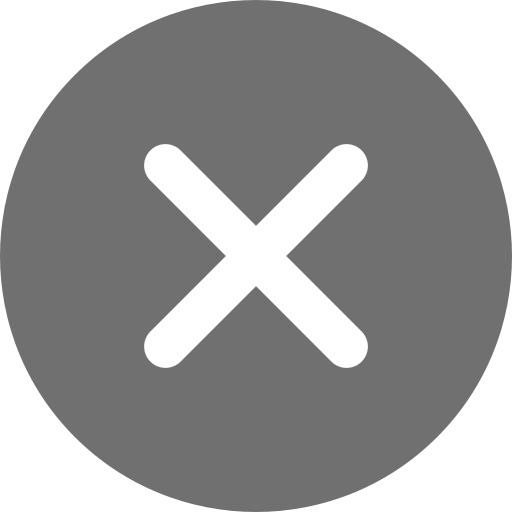
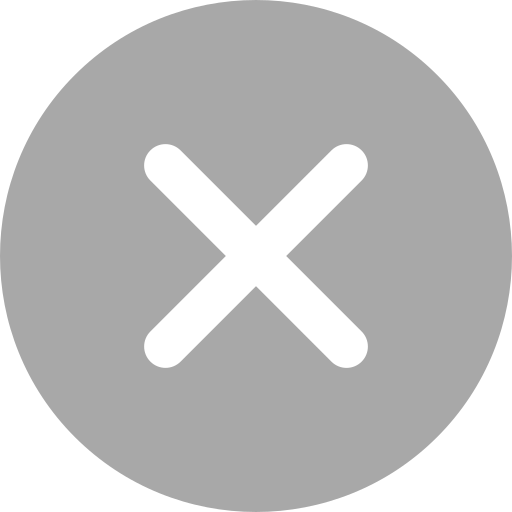
fix: listitem btn pic changed and RWD

diff --git a/src/components/biddingPage/submit/listItem.tsx b/src/components/biddingPage/submit/listItem.tsx
@@ -49,6 +49,12 @@ const ListItem: React.FC<IProps> = ({
   // trash image
   const [trashImg, setTrashImg] = useState<string>('trash-gray.png');
 
+  // check image
+  const [checkImg, setCheckImg] = useState<string>('check-gray.png');
+
+  // cancel image
+  const [cancelImg, setCancelImg] = useState<string>('cancel-gray.png');
+
   // create an array from '0:00 - 1:00' to '23:00 - 24:00'
   const intervalArr: string[] = [
     '0:00 - 1:00',
@@ -284,63 +290,80 @@ const ListItem: React.FC<IProps> = ({
     </div>
   ) : (
     <div className={classNames('bidding-submit-listitem-container--edit')}>
-      <form>
-        <input
-          type="date"
-          className={classNames('bidding-submit-listitem-date--edit')}
-          defaultValue={dayjs(new Date(date)).format('YYYY-MM-DD').toString()}
-          onChange={(e) =>
-            setNewDate(dayjs(e.target.value).format('YYYY/MM/DD'))
-          }
-        />
-        <select
-          className={classNames('bidding-submit-listitem-interval--edit')}
-          defaultValue={interval}
-          onChange={(e) => setNewTime(parseInt(e.target.value, 10))}
-        >
-          <option value={time}>{interval}</option>
-          {createOptions}
-        </select>
-        <input
-          type="number"
-          min="0"
-          step="0.1"
-          className={classNames('bidding-submit-listitem-volume--edit')}
-          defaultValue={volume}
-          onChange={(e) => setNewVolume(parseFloat(e.target.value))}
-        />
-        <input
-          type="number"
-          min="0"
-          step="0.1"
-          className={classNames('bidding-submit-listitem-price--edit')}
-          defaultValue={price}
-          onChange={(e) => setNewPrice(parseFloat(e.target.value))}
-        />
-        <input
-          type="number"
-          min="0"
-          className={classNames('bidding-submit-listitem-total--edit')}
-          // defaultValue={333333}
-          value={newTotalPrice}
-          disabled
-        />
-        <input
+      <input
+        type="date"
+        className={classNames('bidding-submit-listitem-date--edit')}
+        defaultValue={dayjs(new Date(date)).format('YYYY-MM-DD').toString()}
+        onChange={(e) => setNewDate(dayjs(e.target.value).format('YYYY/MM/DD'))}
+      />
+      <select
+        className={classNames('bidding-submit-listitem-interval--edit')}
+        defaultValue={interval}
+        onChange={(e) => setNewTime(parseInt(e.target.value, 10))}
+      >
+        <option value={time}>{interval}</option>
+        {createOptions}
+      </select>
+      <input
+        type="number"
+        min="0"
+        step="0.1"
+        className={classNames('bidding-submit-listitem-volume--edit')}
+        defaultValue={volume}
+        onChange={(e) => setNewVolume(parseFloat(e.target.value))}
+      />
+      <input
+        type="number"
+        min="0"
+        step="0.1"
+        className={classNames('bidding-submit-listitem-price--edit')}
+        defaultValue={price}
+        onChange={(e) => setNewPrice(parseFloat(e.target.value))}
+      />
+      <input
+        type="number"
+        min="0"
+        className={classNames('bidding-submit-listitem-total--edit')}
+        // defaultValue={333333}
+        value={newTotalPrice}
+        disabled
+      />
+      <div
+        className={classNames('bidding-submit-listitem-button-container--edit')}
+      >
+        <button
           type="button"
           title="submit"
-          value="&#10003;"
           className={classNames('bidding-submit-listitem-submit--edit')}
           onClick={() => handleClickSubmit()}
-        />
+          onMouseOver={() => setCheckImg('check-green.png')}
+          onMouseOut={() => setCheckImg('check-gray.png')}
+          onFocus={() => 0}
+          onBlur={() => 0}
+        >
+          <img
+            alt="submit"
+            className={classNames('bidding-submit-listitem-submit-img--edit')}
+            src={`${process.env.PUBLIC_URL}/biddingPage/${checkImg}`}
+          />
+        </button>
         <button
           type="button"
           title="cancel"
           className={classNames('bidding-submit-listitem-cancel--edit')}
           onClick={() => handleClickCancel()}
+          onMouseOver={() => setCancelImg('cancel-red.png')}
+          onMouseOut={() => setCancelImg('cancel-gray.png')}
+          onFocus={() => 0}
+          onBlur={() => 0}
         >
-          &#10005;
+          <img
+            alt="cancel"
+            className={classNames('bidding-submit-listitem-cancel-img--edit')}
+            src={`${process.env.PUBLIC_URL}/biddingPage/${cancelImg}`}
+          />
         </button>
-      </form>
+      </div>
     </div>
   );
 };

diff --git a/src/scss/components/biddingPage/submit/_listItem.scss b/src/scss/components/biddingPage/submit/_listItem.scss
@@ -65,8 +65,8 @@
 
 .bidding-submit-listitem-edit--show {
   cursor: pointer;
-  // flex-basis: 50%;
-  height: 50%;
+  flex-basis: 100%;
+  height: 30%;
   display: inline-flex;
   justify-content: center;
   align-items: center;
@@ -80,14 +80,14 @@
 .bidding-submit-listitem-edit-img--show {
   // border: red solid 1px;
   width: 100%;
-  height: 100%;
+  height: 95%;
   object-fit: contain;
 }
 
 .bidding-submit-listitem-remove--show {
   cursor: pointer;
-  // flex-basis: 50%;
-  height: 50%;
+  flex-basis: 100%;
+  height: 30%;
   display: inline-flex;
   justify-content: center;
   align-items: center;
@@ -103,7 +103,8 @@
   width: 100%;
   height: 100%;
   object-fit: contain;
-  // // border-left: #d1d2d1 solid 1px;
+  // border-left: #d1d2d1 solid 1px;
+  // border: red solid 1px;
 }
 
 
@@ -123,18 +124,19 @@
     // border: red solid 1px;
     font-size: 1.8vh;
   }
+  // border: red solid 1px;
 }
 
 .bidding-submit-listitem-date--edit {
   cursor: pointer;
   margin: 1%;
   width: 18%;
-  height: 100%;
+  height: 50%;
   outline: 0;
   border: 0;
   color: #707070;
   border-bottom: #d1d2d1 solid 1px;
-  // font-size: 5px;
+  // border: red solid 1px;
 }
 
 .bidding-submit-listitem-date--edit:hover {
@@ -145,11 +147,12 @@
   cursor: pointer;
   margin: 1%;
   width: 18%;
-  height: 100%;
+  height: 50%;
   outline: 0;
   border: 0;
   color: #707070;
   border-bottom: #d1d2d1 solid 1px;
+  // border: red solid 1px;
 }
 
 .bidding-submit-listitem-interval--edit:hover {
@@ -159,12 +162,13 @@
 .bidding-submit-listitem-volume--edit {
   margin: 1%;
   width: 15%;
-  height: 100%;
+  height: 50%;
   text-align: right;
   outline: 0;
   border: 0;
   color: #707070;
   border-bottom: #d1d2d1 solid 1px;
+  // border: red solid 1px;
 }
 
 .bidding-submit-listitem-volume--edit:hover {
@@ -174,12 +178,13 @@
 .bidding-submit-listitem-price--edit {
   margin: 1%;
   width: 16%;
-  height: 100%;
+  height: 50%;
   text-align: right;
   outline: 0;
   border: 0;
   color: #707070;
   border-bottom: #d1d2d1 solid 1px;
+  // border: red solid 1px;
 }
 
 .bidding-submit-listitem-price--edit:hover {
@@ -189,65 +194,77 @@
 .bidding-submit-listitem-total--edit {
   margin: 1%;
   width: 13%;
-  height: 100%;
+  height: 50%;
   text-align: right;
   outline: 0;
   border: 0;
   color: #707070;
   background-color: white;
   border-bottom: #d1d2d1 solid 1px;
+  // border: red solid 1px;
+}
+
+.bidding-submit-listitem-button-container--edit {
+  width: 10%;
+  height: 80%;
+  display: flex;
+  flex-wrap: wrap;
+  justify-content: center;
+  align-items: center;
+  // border: green solid 1px;
+  // overflow-y: auto;
 }
 
 .bidding-submit-listitem-submit--edit {
   cursor: pointer;
-  width: 5%;
-  height: 100%;
+  // width: 50%;
+  height: 35%;
+  display: inline-flex;
+  justify-content: center;
+  align-items: center;
   // font-size: 5px;
   // font-weight: bold;
-  border-radius: 50%;
+  // border-radius: 50%;
   border: 0;
   outline: 0;
-  color: #707070;
-  background-color: #f1f2f1;
+  // color: #707070;
+  background-color: transparent;
   // border: red solid 1px;
 }
 
-.bidding-submit-listitem-submit--edit:active {
-  color: white;
-  background-color: #2e7e32;
-}
-
-.bidding-submit-listitem-submit--edit:hover {
-  color: white;
-  background-color: #2e7e32;
+.bidding-submit-listitem-submit-img--edit {
+  width: 100%;
+  height: 100%;
+  object-fit: contain;
+  // border: red solid 1px;
 }
 
 .bidding-submit-listitem-cancel--edit {
   cursor: pointer;
-  width: 5%;
-  height: 100%;
+  // width: 50%;
+  height: 35%;
+  display: inline-flex;
+  justify-content: center;
+  align-items: center;
   // font-size: 5px;
   // font-weight: bold;
   // text-align: center;
   // display: flex;
   // justify-content: center;
   // align-items: center;
-  border-radius: 50%;
+  // border-radius: 50%;
   border: 0;
   outline: 0;
-  color: #707070;
-  background-color: #f1f2f1;
+  // color: #707070;
+  background-color: transparent;
   // border: red solid 1px;
 }
 
-.bidding-submit-listitem-cancel--edit:active {
-  // color: white;
-  // background-color: #d32f2f;
-}
-
-.bidding-submit-listitem-cancel--edit:hover {
-  // color: white;
-  // background-color: #d32f2f;
+.bidding-submit-listitem-cancel-img--edit {
+  width: 100%;
+  height: 100%;
+  object-fit: contain;
+  // border: red solid 1px;
 }
 
 // 1920 < size

diff --git a/src/components/biddingPage/submit/addBid.tsx b/src/components/biddingPage/submit/addBid.tsx
@@ -245,7 +245,7 @@ const AddBid: React.FC<IProps> = ({ type }) => {
           onBlur={() => 0}
         >
           <img
-            alt="submit"
+            alt="reset"
             className={classNames('bidding-submit-addbid-form-reset-img')}
             src={`${process.env.PUBLIC_URL}/biddingPage/${resetImg}.png`}
           />

diff --git a/src/scss/components/biddingPage/submit/_addBid.scss b/src/scss/components/biddingPage/submit/_addBid.scss
@@ -170,6 +170,7 @@
   width: 100%;
   height: 100%;
   object-fit: contain;
+  // border: red solid 1px;
 }
 
 .bidding-submit-addbid-form-reset:disabled {

diff --git a/src/scss/components/biddingPage/submit/_infoBox.scss b/src/scss/components/biddingPage/submit/_infoBox.scss
@@ -198,6 +198,7 @@
 }
 
 .bidding-submit-infobox-content-center-inside-total--edit {
+  background-color: white;
   flex-basis: 60%;
 }
 
